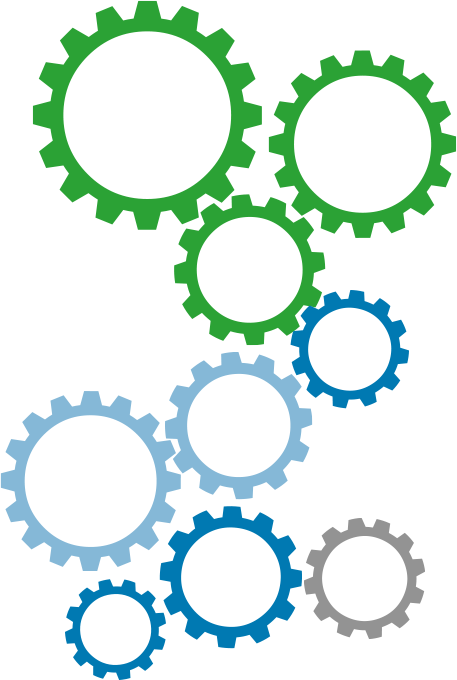
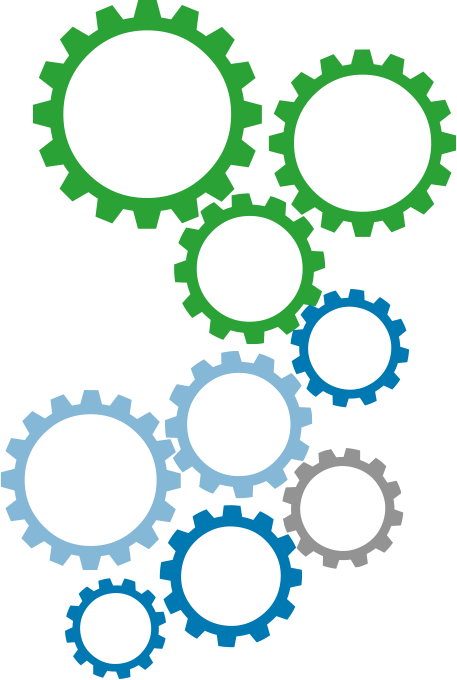
mode Files

diff --git a/standardCharteredBank/css/sub.css b/standardCharteredBank/css/sub.css
@@ -148,7 +148,7 @@
                     .redeashipProgramLinkArea .programLinkArea05 a h2{ font-size:14px; font-weight:bold; color:#000; text-align:center; }
                     .redeashipProgramLinkArea .programLinkArea05 a p{ font-size:14px; color:#000; text-align:center; }
                 .redeashipProgramLinkArea .programLinkArea06{ width:105px; top:465px; left:40px; }
-                .redeashipProgramLinkArea .programLinkArea07{ width:100px; top:549px; left:315px; }
+                .redeashipProgramLinkArea .programLinkArea07{ width:100px; top:480px; left:293px; }
                 .redeashipProgramLinkArea .programLinkArea08{ width:100px; top:564px; left:179px; }
                     .redeashipProgramLinkArea .programLinkArea08 a h2{ font-size:14px; font-weight:bold; color:#000; text-align:center; }
                     .redeashipProgramLinkArea .programLinkArea08 a p{ font-size:14px; color:#000; text-align:center; }
